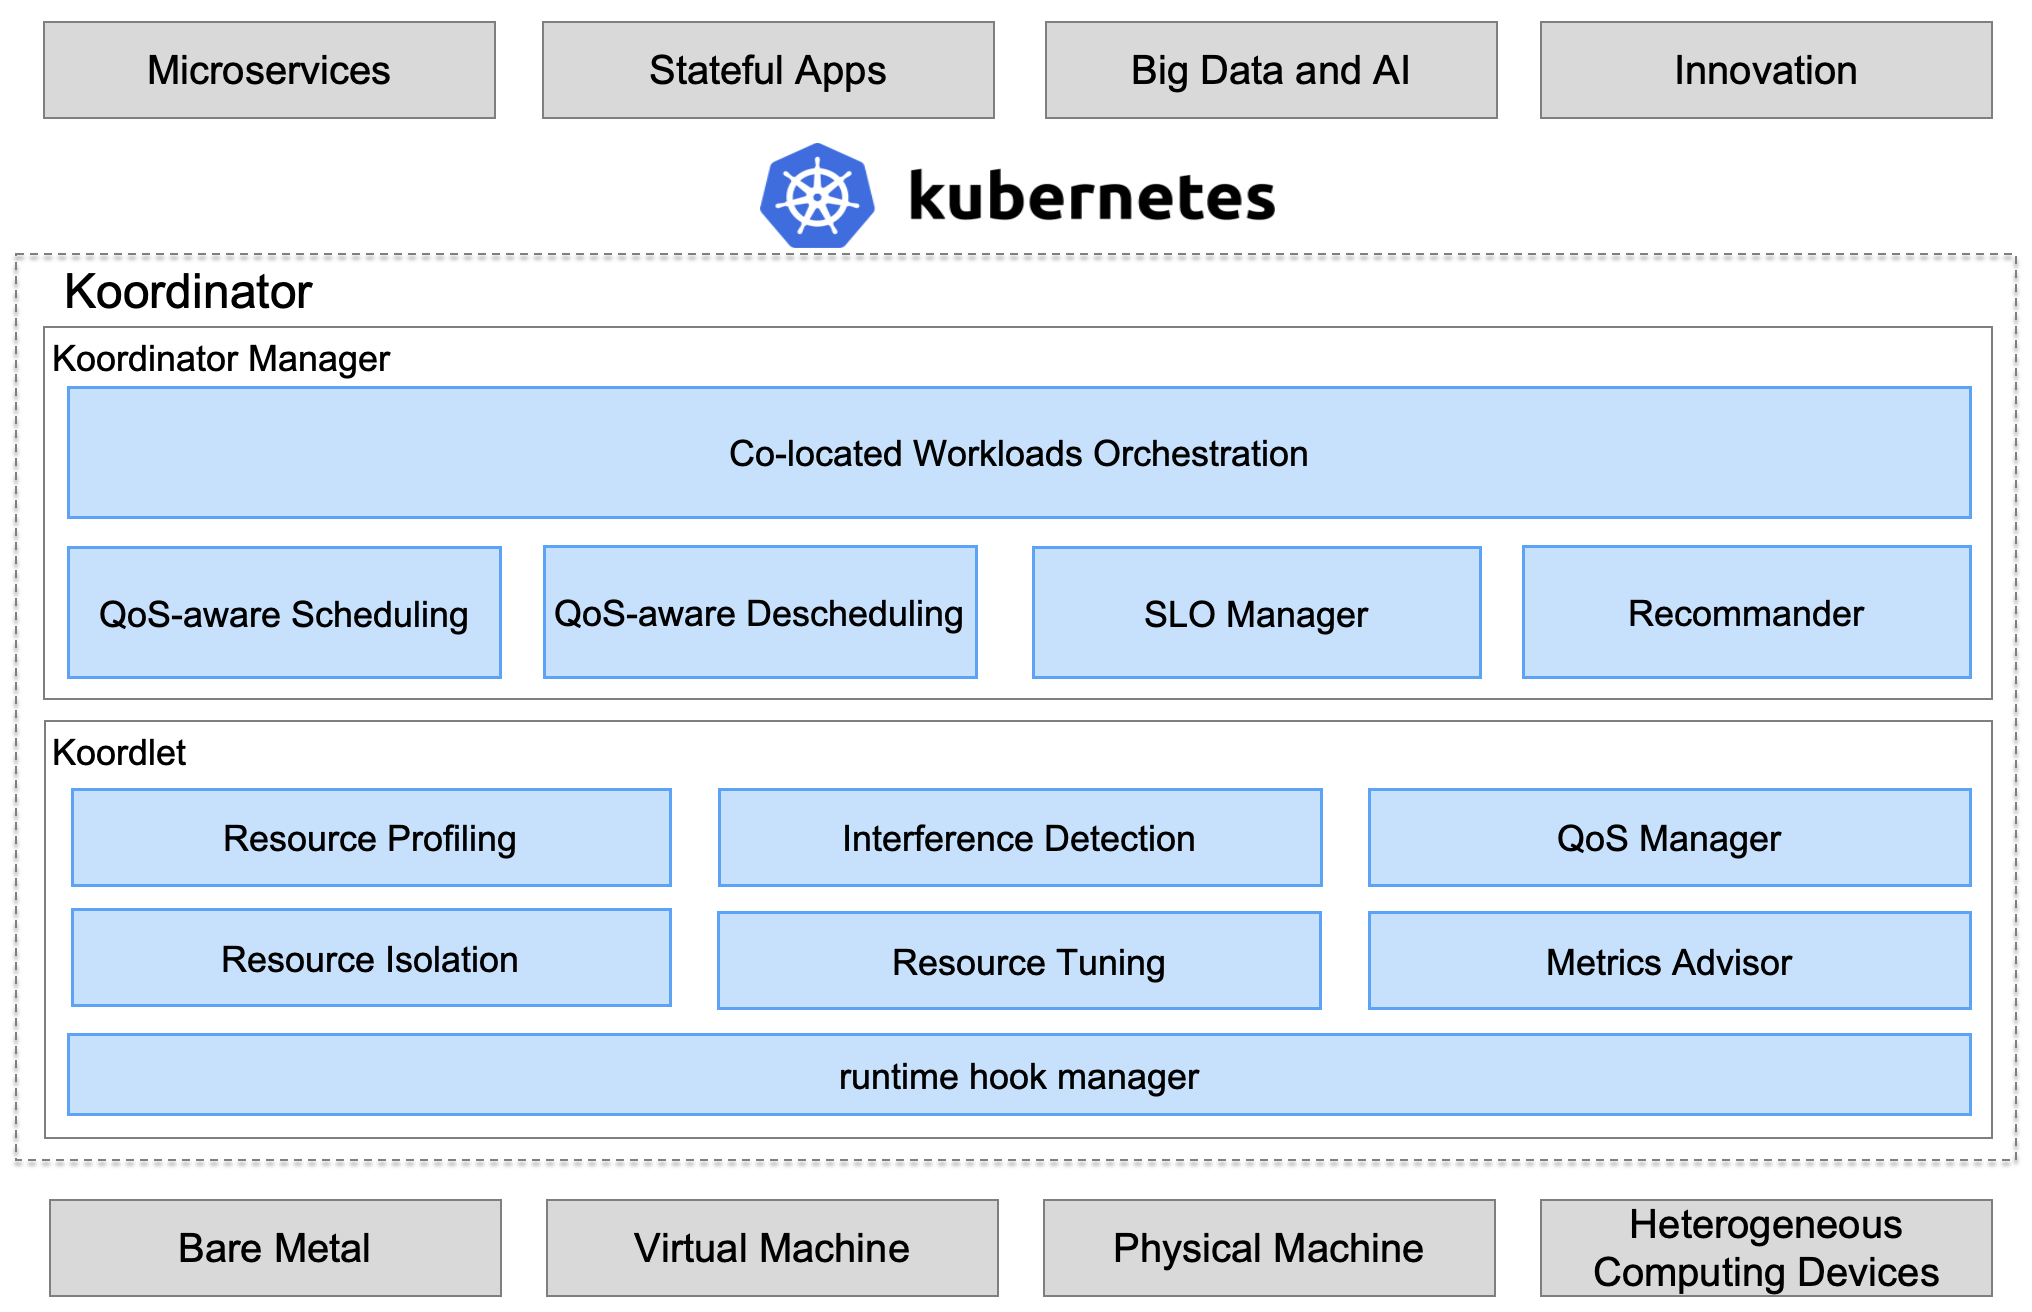
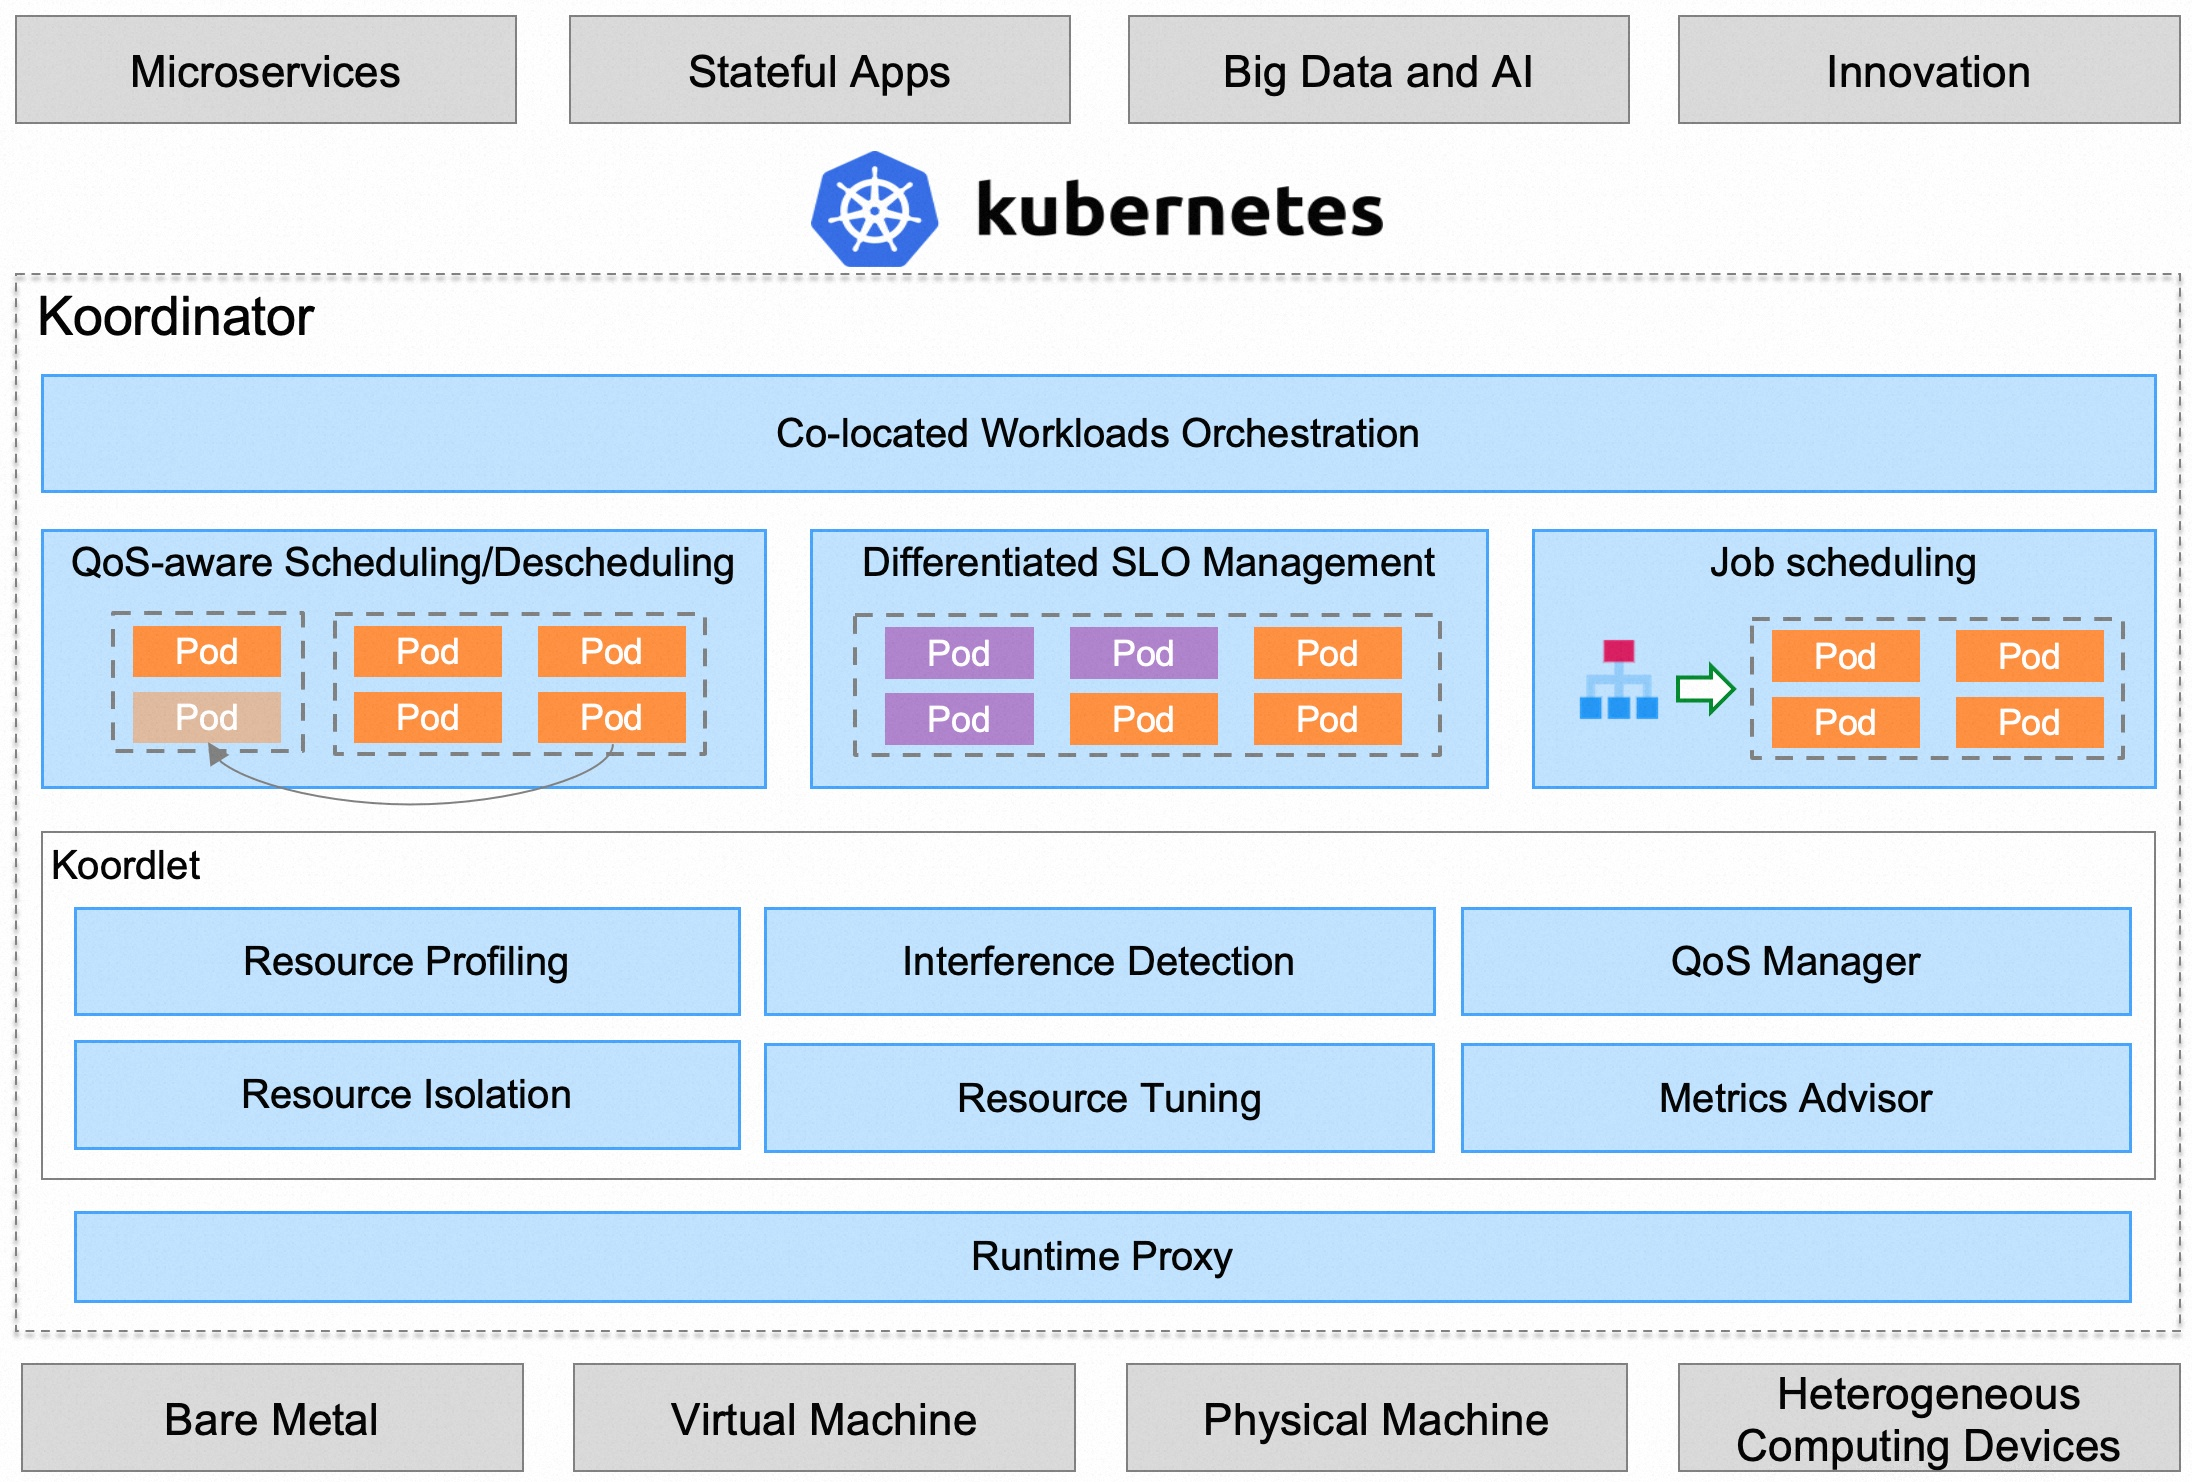
Add descheduler/runtimeproxy chapter, and adjust the description of some scheduling chapters

diff --git a/docs/architecture/overview.md b/docs/architecture/overview.md
@@ -5,16 +5,26 @@ Koordinator adds co-location capabilities on top of the original kubernetes, and
 
 ![Architecture](/img/architecture.png)
 
-## Koordinator Scheduler
+## Koord-Scheduler
 
-The Koordinator Scheduler is deployed as a ```Deployment```, which is used to enhance the resource scheduling capabilities of kubernetes in colocation scenarios, including:
+The Koordinator Scheduler is deployed as a ```Deployment```, which is used to enhance the resource scheduling capabilities of kubernetes in QoS-aware, differentiated SLO management, and job scheduling. Specifically including:
 
-- More scenario support, including elastic quota scheduling, resource overcommitment, resource reservation, gang scheduling, heterogeneous resource scheduling.
-- Better performance, including dynamic index optimization, equivalence class scheduling, random relaxation algorithm optimization.
-- Safer descheduling, including workload availability awareness, deterministic pod migration, fine grained flow control, and modification audit support.
+- QoS-aware scheduling, including load-aware scheduling to make node load more balanced, resource overcommitment to run more computing workloads with low priority. 
+- Differentiated SLO management, including fine-grained CPU orchestration, different QoS policy(cfs/LLC/memory bw/net bw/blkio) for diffenent workloads. 
+- Job scheduling, including elastic quota scheduling, gang scheduling, heterogeneous resource scheduling, to support big-data and AI workloads.
 
+In order to better support diffenent workloads, the scheduler also provides a series of general capability enhancements:
+- Reservation, an ability for reserving node resources for specific pods or workloads, which is widely used in descheduling, resource preemption and fragmentation optimization.
+- Node reservation, an ability for reserving node resources for workloads out of kubernetes, which is typically used for non-containerized workloads.
 
-## Koordinator Manager
+## Koord-Descheduler
+
+The Koordinator Descheduler is deployed as a ```Deployment```, which is an enhanced version of the community descheduler:
+
+- Framework, a descheduling framework with better scalability, determinism and security, for more [details](../designs/descheduler-framework).
+- Load-aware descheduling, a descheduling plugins to support node load rebalancing, which supports user-defined CPU load level of nodes to avoids hotspot nodes.
+
+## Koord-Manager
 
 The Koordinator Manager is deployed as a ``` Deployment ```, usually consists of two instances, one leader and one backup. The Koordinator Manager consists of several controllers and webhooks, which are used to orchestrate co-located workloads and support resource overcommitment scheduling and SLO management.
 
@@ -35,6 +45,9 @@ Inside Koordlet, it mainly includes the following modules:
 - QoS Manager, which dynamically adjusts the water level of node colocation based on resource profiling, interference detection results and SLO configuration, suppressing Pods that affect service quality.
 - Resource Tuning, container resource tuning for co-located scenarios, optimize the container's CPU Throttle, OOM, etc., to improve the quality of service operation.
 
+## Koord-RuntimeProxy
+
+The Koord-RuntimeProxy is deployed as a ``` systemd service ``` in kubernetes node, which is designed to intercept CRI request, and apply some resource management policies, such as setting different cgroup parameters by pod priorities under hybrid workload orchestration scenario, applying new isolation policies for latest Linux kernel, CPU architecture, and etc.
 
 ## What's Next
 
